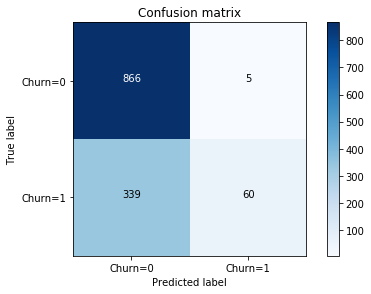
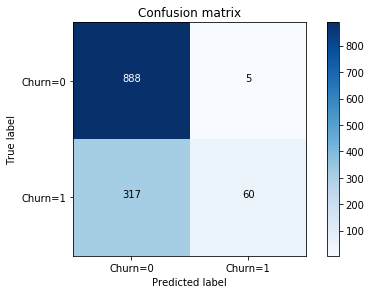
Site updated: 2018-10-12 17:42:23

diff --git a/2018/10/01/Churn-Prediction/index.html b/2018/10/01/Churn-Prediction/index.html
@@ -215,14 +215,14 @@
 <blockquote>
 <p>3) After implementing this technique, we have a sub-sample of our dataframe with a 50/50 ratio with regards to our classes. Then the next step we will implement is to shuffle the data to see if our models can maintain a certain accuracy everytime we run this script.</p>
 </blockquote>
-<figure class="highlight bash"><table><tr><td class="gutter"><pre><span class="line">1</span><br><span class="line">2</span><br><span class="line">3</span><br><span class="line">4</span><br><span class="line">5</span><br><span class="line">6</span><br><span class="line">7</span><br><span class="line">8</span><br><span class="line">9</span><br><span class="line">10</span><br><span class="line">11</span><br><span class="line">12</span><br><span class="line">13</span><br><span class="line">14</span><br></pre></td><td class="code"><pre><span class="line"><span class="comment"># Since our classes are highly skewed we should make them equivalent in order to have</span></span><br><span class="line">a normal distribution of the classes.</span><br><span class="line"></span><br><span class="line"><span class="comment"># Lets shuffle the data before creating the subsamples</span></span><br><span class="line">new_df= data.sample(frac=1)</span><br><span class="line"></span><br><span class="line"><span class="comment"># Take same amount (323 rows) of churn and non-churn cases.</span></span><br><span class="line">Left_df = new_df.loc[new_df[<span class="string">'Churn'</span>] == 1]</span><br><span class="line">Stay_df = new_df.loc[new_df[<span class="string">'Churn'</span>] == 0][:323]</span><br><span class="line"></span><br><span class="line">normal_distributed_df = pd.concat([Left_df, Stay_df])</span><br><span class="line"></span><br><span class="line"><span class="comment"># Shuffle dataframe rows</span></span><br><span class="line">new_df = normal_distributed_df.sample(frac=1, random_state=42)</span><br></pre></td></tr></table></figure>
+<figure class="highlight bash"><table><tr><td class="gutter"><pre><span class="line">1</span><br><span class="line">2</span><br><span class="line">3</span><br><span class="line">4</span><br><span class="line">5</span><br><span class="line">6</span><br><span class="line">7</span><br><span class="line">8</span><br><span class="line">9</span><br><span class="line">10</span><br><span class="line">11</span><br><span class="line">12</span><br><span class="line">13</span><br><span class="line">14</span><br><span class="line">15</span><br></pre></td><td class="code"><pre><span class="line"><span class="comment"># Since our classes are highly skewed we should make them equivalent in order to have</span></span><br><span class="line">a normal distribution of the classes.</span><br><span class="line"></span><br><span class="line"><span class="comment"># Lets shuffle the data before creating the subsamples</span></span><br><span class="line">new_df= data[[<span class="string">'CHI Score 0-1'</span>,<span class="string">'CHI Score Month 0'</span>,<span class="string">'Views 0-1'</span>,<span class="string">'Customer Age'</span>,</span><br><span class="line"><span class="string">' Days Since Last Login 0-1'</span>,<span class="string">'Churn'</span>]].sample(frac=1)</span><br><span class="line"></span><br><span class="line"><span class="comment"># Take same amount (323 rows) of churn and non-churn cases.</span></span><br><span class="line">Left_df = new_df.loc[new_df[<span class="string">'Churn'</span>] == 1]</span><br><span class="line">Stay_df = new_df.loc[new_df[<span class="string">'Churn'</span>] == 0][:323]</span><br><span class="line"></span><br><span class="line">normal_distributed_df = pd.concat([Left_df, Stay_df])</span><br><span class="line"></span><br><span class="line"><span class="comment"># Shuffle dataframe rows</span></span><br><span class="line">new_df = normal_distributed_df.sample(frac=1, random_state=42)</span><br></pre></td></tr></table></figure>
 <div align="center"><br><img src="./q32.png" width="392" height="279" alt="图片名称" align="center"><br></div>
 
 <blockquote>
 <p>Note: The main issue with “Random Under-Sampling” is that we run the risk that our classification models will not perform as accurate as we would like to since there is a great deal of information loss (bringing 323 Churn=0 customers from 6,024 Churn=0 customers)</p>
 </blockquote>
 <h4 id="3-3-Test-Data-with-RandomForestClassifier"><a href="#3-3-Test-Data-with-RandomForestClassifier" class="headerlink" title="3.3 Test Data with RandomForestClassifier:"></a>3.3 Test Data with RandomForestClassifier:</h4><p>Random UnderSampling: We will evaluate the final performance of the classification models in the original_ytest<br>Classification Models: The models that performed the best were RandomForestClassifier</p>
-<figure class="highlight bash"><table><tr><td class="gutter"><pre><span class="line">1</span><br><span class="line">2</span><br><span class="line">3</span><br><span class="line">4</span><br><span class="line">5</span><br><span class="line">6</span><br><span class="line">7</span><br><span class="line">8</span><br><span class="line">9</span><br><span class="line">10</span><br><span class="line">11</span><br><span class="line">12</span><br><span class="line">13</span><br><span class="line">14</span><br><span class="line">15</span><br><span class="line">16</span><br><span class="line">17</span><br><span class="line">18</span><br><span class="line">19</span><br><span class="line">20</span><br><span class="line">21</span><br><span class="line">22</span><br><span class="line">23</span><br></pre></td><td class="code"><pre><span class="line">new_X = new_df.drop(<span class="string">'Churn'</span>, axis=1).values</span><br><span class="line">new_y = new_df[<span class="string">'Churn'</span>].values</span><br><span class="line"></span><br><span class="line">new_X_train, new_X_test, new_y_train, new_y_test = train_test_split(new_X, new_y,</span><br><span class="line">test_size=0.2, random_state=42)</span><br><span class="line"></span><br><span class="line"><span class="comment">#RandomForestClassifier</span></span><br><span class="line">tree =RandomForestClassifier()</span><br><span class="line">tree.fit(new_X_train, new_y_train)</span><br><span class="line"></span><br><span class="line">y_pred = tree.predict(original_Xtest)</span><br><span class="line"><span class="built_in">print</span>(<span class="string">"Test set accuracy score: &#123;:.5f&#125;"</span>.format(accuracy_score(y_pred,original_ytest)))</span><br><span class="line"><span class="built_in">print</span>(classification_report(original_ytest, y_pred, target_names=labels))</span><br><span class="line"><span class="built_in">print</span>(confusion_matrix(y_pred,original_ytest))</span><br><span class="line"></span><br><span class="line"><span class="comment">#output</span></span><br><span class="line">Test <span class="built_in">set</span> accuracy score: 0.73228</span><br><span class="line">             precision    recall  f1-score   support</span><br><span class="line"></span><br><span class="line">    Churn=0       0.99      0.73      0.84      1205</span><br><span class="line">    Churn=1       0.14      0.85      0.24        65</span><br><span class="line"></span><br><span class="line">avg / total       0.95      0.73      0.81      1270</span><br></pre></td></tr></table></figure>
+<figure class="highlight bash"><table><tr><td class="gutter"><pre><span class="line">1</span><br><span class="line">2</span><br><span class="line">3</span><br><span class="line">4</span><br><span class="line">5</span><br><span class="line">6</span><br><span class="line">7</span><br><span class="line">8</span><br><span class="line">9</span><br><span class="line">10</span><br><span class="line">11</span><br><span class="line">12</span><br><span class="line">13</span><br><span class="line">14</span><br><span class="line">15</span><br><span class="line">16</span><br><span class="line">17</span><br><span class="line">18</span><br><span class="line">19</span><br><span class="line">20</span><br><span class="line">21</span><br><span class="line">22</span><br><span class="line">23</span><br></pre></td><td class="code"><pre><span class="line">new_X = new_df.drop(<span class="string">'Churn'</span>, axis=1).values</span><br><span class="line">new_y = new_df[<span class="string">'Churn'</span>].values</span><br><span class="line"></span><br><span class="line">new_X_train, new_X_test, new_y_train, new_y_test = train_test_split(new_X, new_y,</span><br><span class="line">test_size=0.2, random_state=42)</span><br><span class="line"></span><br><span class="line"><span class="comment">#RandomForestClassifier</span></span><br><span class="line">tree =RandomForestClassifier()</span><br><span class="line">tree.fit(new_X_train, new_y_train)</span><br><span class="line"></span><br><span class="line">y_pred = tree.predict(original_Xtest)</span><br><span class="line"><span class="built_in">print</span>(<span class="string">"Test set accuracy score: &#123;:.5f&#125;"</span>.format(accuracy_score(y_pred,original_ytest)))</span><br><span class="line"><span class="built_in">print</span>(classification_report(original_ytest, y_pred, target_names=labels))</span><br><span class="line"><span class="built_in">print</span>(confusion_matrix(y_pred,original_ytest))</span><br><span class="line"></span><br><span class="line"><span class="comment">#output</span></span><br><span class="line">Test <span class="built_in">set</span> accuracy score: 0.74646</span><br><span class="line">             precision    recall  f1-score   support</span><br><span class="line"></span><br><span class="line">    Churn=0       0.99      0.74      0.85      1205</span><br><span class="line">    Churn=1       0.16      0.92      0.27        65</span><br><span class="line"></span><br><span class="line">avg / total       0.95      0.75      0.82      1270</span><br></pre></td></tr></table></figure>
 <blockquote>
 <p>Confusion Matrix:</p>
 </blockquote>
@@ -237,13 +237,29 @@
 <p>Code for the confusion matrix:</p>
 </blockquote>
 <figure class="highlight bash"><table><tr><td class="gutter"><pre><span class="line">1</span><br><span class="line">2</span><br><span class="line">3</span><br><span class="line">4</span><br><span class="line">5</span><br><span class="line">6</span><br><span class="line">7</span><br><span class="line">8</span><br><span class="line">9</span><br><span class="line">10</span><br><span class="line">11</span><br><span class="line">12</span><br><span class="line">13</span><br><span class="line">14</span><br><span class="line">15</span><br><span class="line">16</span><br><span class="line">17</span><br><span class="line">18</span><br><span class="line">19</span><br><span class="line">20</span><br><span class="line">21</span><br><span class="line">22</span><br><span class="line">23</span><br><span class="line">24</span><br><span class="line">25</span><br><span class="line">26</span><br><span class="line">27</span><br><span class="line">28</span><br><span class="line">29</span><br></pre></td><td class="code"><pre><span class="line">import itertools</span><br><span class="line">def plot_confusion_matrix(cm, classes,</span><br><span class="line">                          title=<span class="string">'Confusion matrix'</span>,</span><br><span class="line">                          cmap=plt.cm.Blues):</span><br><span class="line">    <span class="string">""</span><span class="string">"</span></span><br><span class="line"><span class="string">    This function prints and plots the confusion matrix.</span></span><br><span class="line"><span class="string">    "</span><span class="string">""</span></span><br><span class="line">    plt.imshow(cm, interpolation=<span class="string">'nearest'</span>, cmap=cmap)</span><br><span class="line">    plt.title(title)</span><br><span class="line">    plt.colorbar()</span><br><span class="line">    tick_marks = np.arange(len(classes))</span><br><span class="line">    plt.xticks(tick_marks, classes, rotation=0)</span><br><span class="line">    plt.yticks(tick_marks, classes)</span><br><span class="line"></span><br><span class="line">    thresh = cm.max() / 2.</span><br><span class="line">    <span class="keyword">for</span> i, j <span class="keyword">in</span> itertools.product(range(cm.shape[0]), range(cm.shape[1])):</span><br><span class="line">        plt.text(j, i, cm[i, j],</span><br><span class="line">                 horizontalalignment=<span class="string">"center"</span>,</span><br><span class="line">                 color=<span class="string">"white"</span> <span class="keyword">if</span> cm[i, j] &gt; thresh <span class="keyword">else</span> <span class="string">"black"</span>)</span><br><span class="line"></span><br><span class="line">    plt.tight_layout()</span><br><span class="line">    plt.ylabel(<span class="string">'True label'</span>)</span><br><span class="line">    plt.xlabel(<span class="string">'Predicted label'</span>)</span><br><span class="line"></span><br><span class="line">labels = [<span class="string">'Churn=0'</span>, <span class="string">'Churn=1'</span>]</span><br><span class="line">plot_confusion_matrix(tree_matrix</span><br><span class="line">                      , classes=labels</span><br><span class="line">                      , title=<span class="string">'Confusion matrix'</span>)</span><br><span class="line">plt.show()</span><br></pre></td></tr></table></figure>
-<h3 id="Q4-what-characteristics-separate-them-from-the-rest-of-QWE-customers"><a href="#Q4-what-characteristics-separate-them-from-the-rest-of-QWE-customers" class="headerlink" title="Q4 what characteristics separate them from the rest of QWE customers?"></a>Q4 what characteristics separate them from the rest of QWE customers?</h3><div align="center"><br><img src="./q41.png" width="2252" height="495" alt="图片名称" align="center"><br></div>
+<h3 id="Q4-what-characteristics-separate-them-from-the-rest-of-QWE-customers"><a href="#Q4-what-characteristics-separate-them-from-the-rest-of-QWE-customers" class="headerlink" title="Q4 what characteristics separate them from the rest of QWE customers?"></a>Q4 what characteristics separate them from the rest of QWE customers?</h3><p>From the following decision tree, We can see the top 3 characteristics for customer Churn:<br>If we use these conditions to filter in the  original dataset (6346 rows ) we can get 350 customers<br>includes 279 (Churn=0) and 71(churn=1).</p>
+<blockquote>
+<p>11.5=&lt; Customer Age &lt;=41</p>
+</blockquote>
+<blockquote>
+<p>CHI Score Month 0 &lt;=73.5</p>
+</blockquote>
+<blockquote>
+<p>Days Since Last Login 0-1 &gt;=23.5</p>
+</blockquote>
+<figure class="highlight bash"><table><tr><td class="gutter"><pre><span class="line">1</span><br><span class="line">2</span><br><span class="line">3</span><br><span class="line">4</span><br><span class="line">5</span><br><span class="line">6</span><br><span class="line">7</span><br></pre></td><td class="code"><pre><span class="line">datamask=data[(data[<span class="string">'Customer Age'</span>]&gt;=11.5)&amp;(data[<span class="string">'Customer Age'</span>]&lt;=41)&amp;</span><br><span class="line">(data[<span class="string">'CHI Score Month 0'</span>]&lt;=73.5)&amp;(data[<span class="string">' Days Since Last Login 0-1'</span>]&gt;=23.5)]</span><br><span class="line">datamask[<span class="string">'Churn'</span>].value_counts()</span><br><span class="line"></span><br><span class="line">0    279</span><br><span class="line">1     71</span><br><span class="line">Name: Churn, dtype: int64</span><br></pre></td></tr></table></figure>
+<div align="center"><br><img src="./q42.png" width="1245" height="841" alt="图片名称" align="center"><br></div>
 
 <blockquote>
 <p>Code for Visualizing a Decision Tree from a Random Forest :</p>
 </blockquote>
 <figure class="highlight bash"><table><tr><td class="gutter"><pre><span class="line">1</span><br><span class="line">2</span><br><span class="line">3</span><br><span class="line">4</span><br><span class="line">5</span><br><span class="line">6</span><br><span class="line">7</span><br><span class="line">8</span><br><span class="line">9</span><br><span class="line">10</span><br><span class="line">11</span><br><span class="line">12</span><br><span class="line">13</span><br><span class="line">14</span><br><span class="line">15</span><br><span class="line">16</span><br><span class="line">17</span><br><span class="line">18</span><br><span class="line">19</span><br><span class="line">20</span><br><span class="line">21</span><br><span class="line">22</span><br><span class="line">23</span><br><span class="line">24</span><br><span class="line">25</span><br><span class="line">26</span><br><span class="line">27</span><br><span class="line">28</span><br><span class="line">29</span><br><span class="line">30</span><br><span class="line">31</span><br></pre></td><td class="code"><pre><span class="line">feature_names=new_df.drop(<span class="string">'Churn'</span>,axis=1).columns</span><br><span class="line">target_names= [<span class="string">'Churn=0'</span>, <span class="string">'Churn=1'</span>]</span><br><span class="line"></span><br><span class="line">from sklearn import tree</span><br><span class="line">import pydotplus</span><br><span class="line"><span class="comment"># Model (can also use single decision tree)</span></span><br><span class="line">from sklearn.ensemble import RandomForestClassifier</span><br><span class="line">model =RandomForestClassifier(max_depth=5, criterion=<span class="string">'gini'</span>)</span><br><span class="line"></span><br><span class="line"><span class="comment"># Train</span></span><br><span class="line">model.fit(new_X_train, new_y_train)</span><br><span class="line"><span class="comment"># Extract single tree</span></span><br><span class="line">estimator = model.estimators_[5]</span><br><span class="line"></span><br><span class="line">from sklearn.tree import export_graphviz</span><br><span class="line"><span class="comment"># Export as dot file</span></span><br><span class="line">dot_data = tree.export_graphviz(estimator, out_file=None,</span><br><span class="line">                feature_names = feature_names,</span><br><span class="line">                class_names = target_names,</span><br><span class="line">                rounded = True, proportion = False,</span><br><span class="line">                precision = 2, filled = True)</span><br><span class="line"></span><br><span class="line"><span class="comment"># Convert to png using system command (requires Graphviz)</span></span><br><span class="line">from subprocess import call</span><br><span class="line">call([<span class="string">'dot'</span>, <span class="string">'-Tpng'</span>, <span class="string">'tree.dot'</span>, <span class="string">'-o'</span>, <span class="string">'tree.png'</span>, <span class="string">'-Gdpi=600'</span>])</span><br><span class="line"><span class="comment"># Draw graph</span></span><br><span class="line">graph = pydotplus.graph_from_dot_data(dot_data)  </span><br><span class="line"></span><br><span class="line"><span class="comment"># Display in jupyter notebook</span></span><br><span class="line">from IPython.display import Image</span><br><span class="line">Image(graph.create_png())</span><br></pre></td></tr></table></figure>
-<h3 id="Q5-Can-our-Model-support-a-call-based-program-to-improve-customer-retention"><a href="#Q5-Can-our-Model-support-a-call-based-program-to-improve-customer-retention" class="headerlink" title="Q5 Can our Model support a call-based program to improve customer retention?"></a>Q5 Can our Model support a call-based program to improve customer retention?</h3>
+<h3 id="Q5-Can-our-Model-support-a-call-based-program-to-improve-customer-retention"><a href="#Q5-Can-our-Model-support-a-call-based-program-to-improve-customer-retention" class="headerlink" title="Q5 Can our Model support a call-based program to improve customer retention?"></a>Q5 Can our Model support a call-based program to improve customer retention?</h3><p>From the above step, we use 3 conditions to reduce the risky customers to 350.<br>Then we can random select 100 customers from those customers. And we repeat selection for 30 times.<br>The mean Churn rate for 100 customers will be close : 20%<br>Then calculate the expected return per hundred customers</p>
+<div align="center"><br><img src="./q51.png" width="539" height="198" alt="图片名称" align="center"><br></div>
+
+<p>We get $1000 per hundred customers, it shows our model can support this call_based program.</p>
+<figure class="highlight bash"><table><tr><td class="gutter"><pre><span class="line">1</span><br><span class="line">2</span><br><span class="line">3</span><br><span class="line">4</span><br><span class="line">5</span><br><span class="line">6</span><br><span class="line">7</span><br><span class="line">8</span><br><span class="line">9</span><br><span class="line">10</span><br><span class="line">11</span><br><span class="line">12</span><br></pre></td><td class="code"><pre><span class="line">score=[]</span><br><span class="line"><span class="keyword">for</span> i <span class="keyword">in</span> range(1, 30):</span><br><span class="line">    dfi=datamask.sample(n=100)</span><br><span class="line">    score.append(dfi[:100][<span class="string">'Churn'</span>].value_counts()[1]/100)</span><br><span class="line"><span class="built_in">print</span>(score)   </span><br><span class="line"><span class="built_in">print</span>(<span class="string">"The mean Churn rate for 100 customers :"</span>,round(sum(score) / <span class="built_in">float</span>(len(score)),2))</span><br><span class="line"></span><br><span class="line"><span class="comment">#Output</span></span><br><span class="line">[0.2, 0.26, 0.2, 0.2, 0.2, 0.25, 0.17, 0.23, 0.17, 0.29, 0.22, 0.21, 0.24, 0.16,</span><br><span class="line">0.22, 0.2, 0.15, 0.24, 0.19, 0.2, 0.25, 0.18, 0.2, 0.2, 0.14, 0.19, 0.19, 0.21, 0.14]</span><br><span class="line"></span><br><span class="line">The mean Churn rate <span class="keyword">for</span> 100 customers : 0.2</span><br></pre></td></tr></table></figure>
+
             </div>
 
             <!-- Post Comments -->
